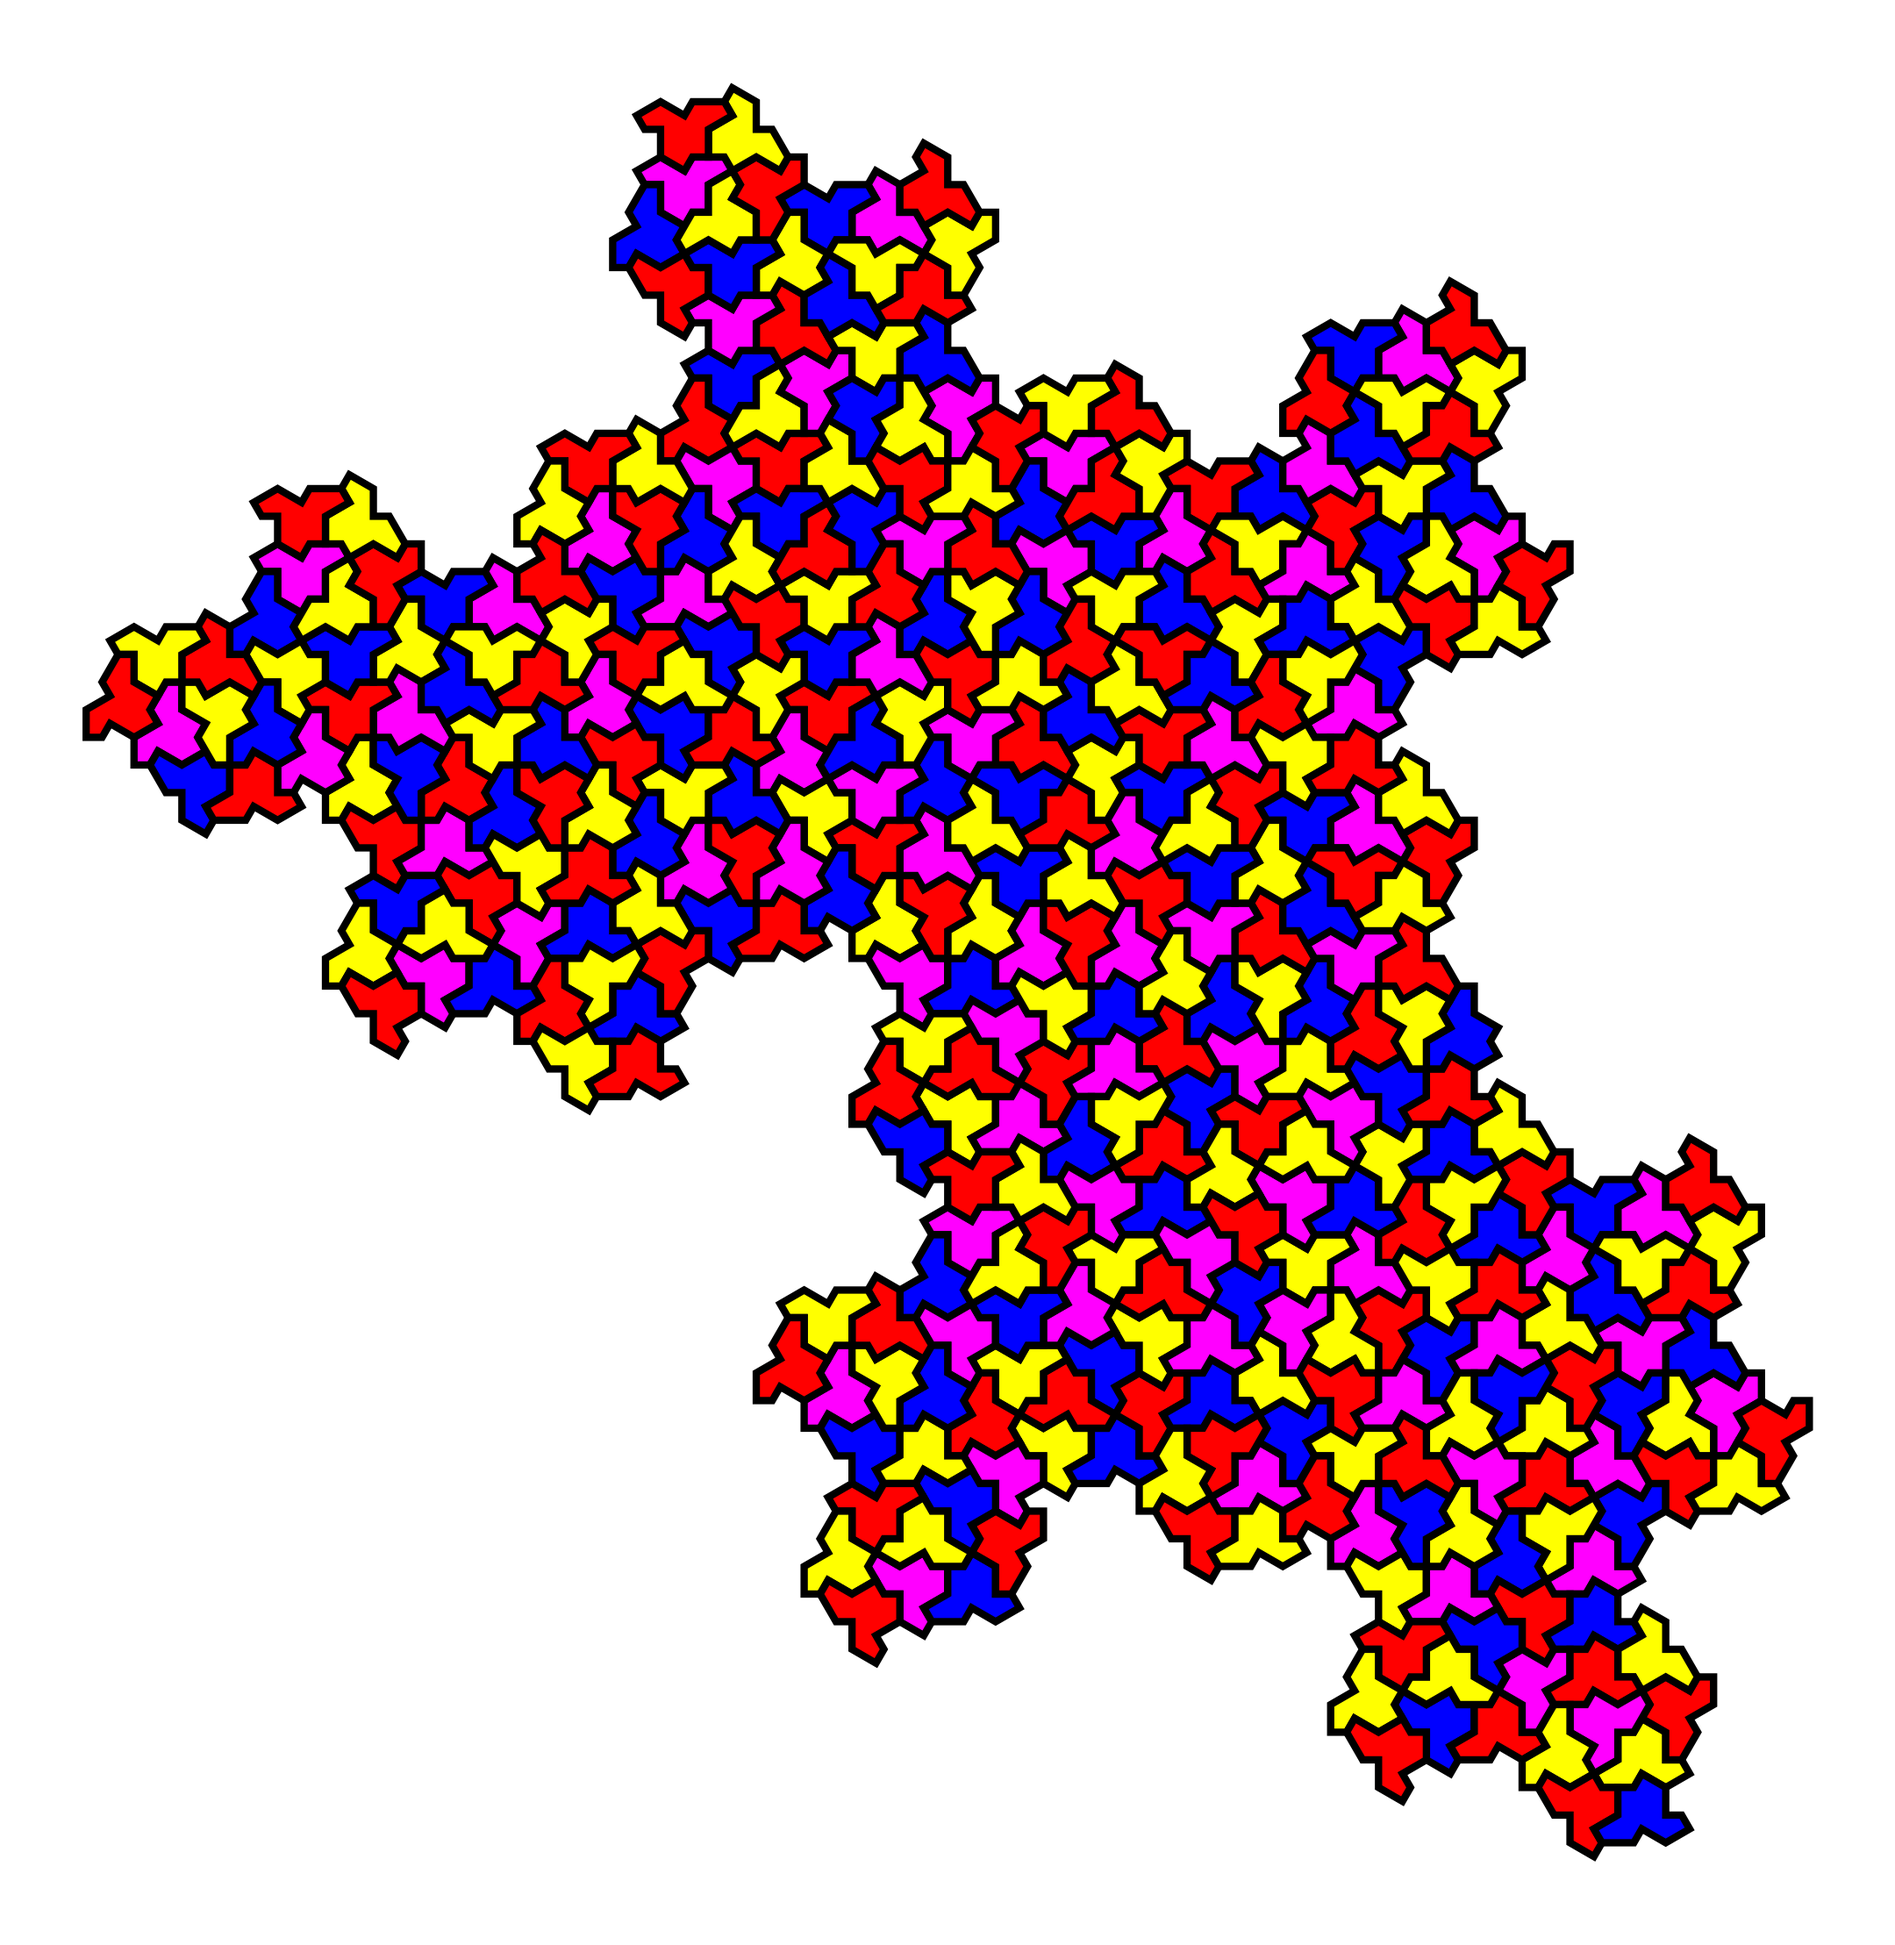
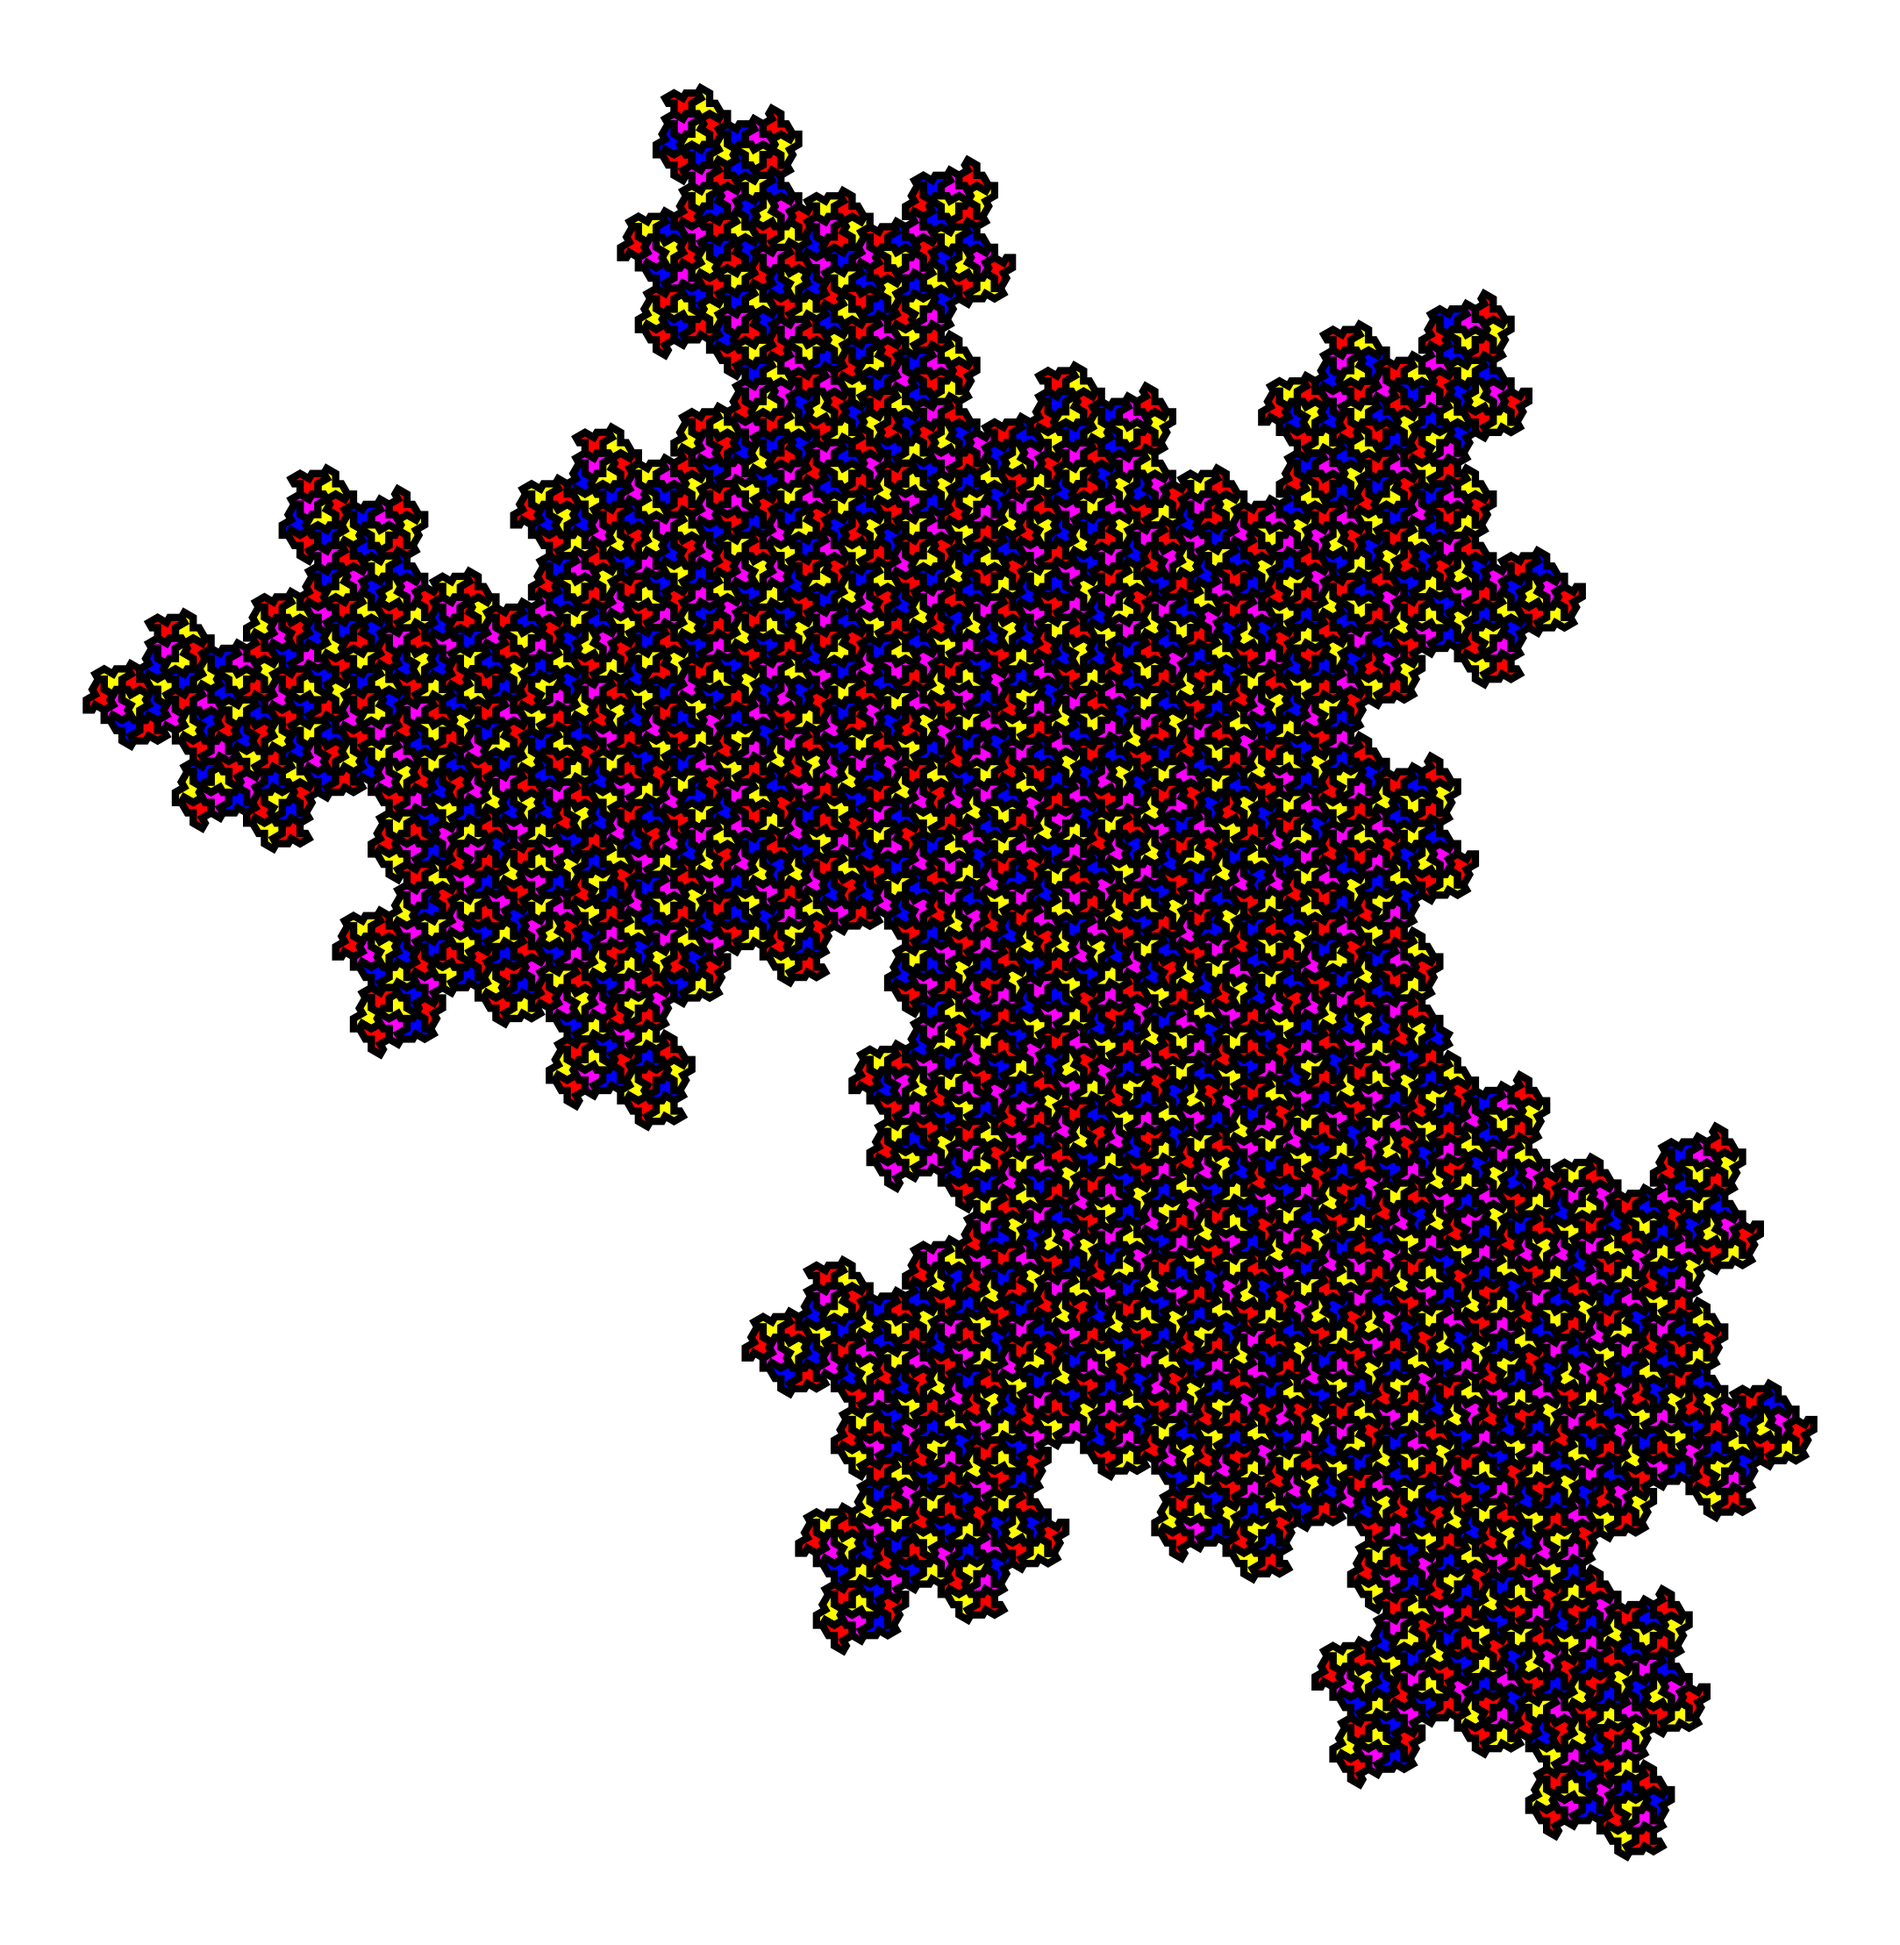
Larger supertile

diff --git a/einstein.py b/einstein.py
@@ -198,7 +198,7 @@ def circle(tiles, radius=25):
 
 if __name__ == '__main__':
     H = bases(1, 3**0.5)
-    for i in range(3):
+    for i in range(4):
         H = supers(H)
 
     tiles = H[0].flatten()
